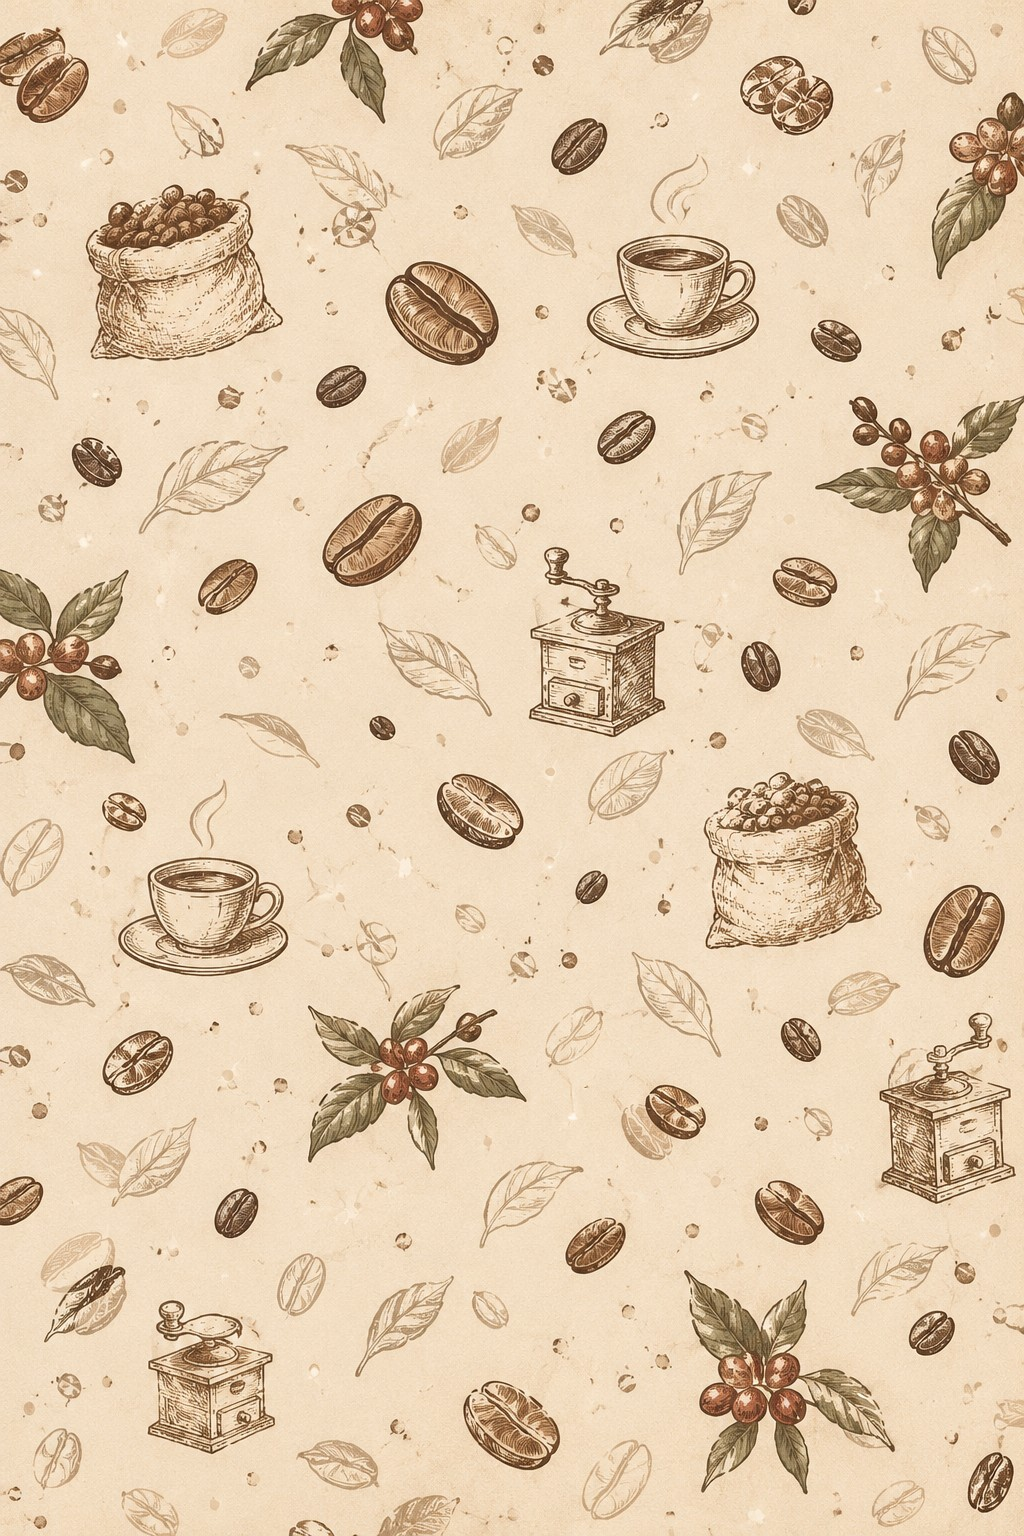
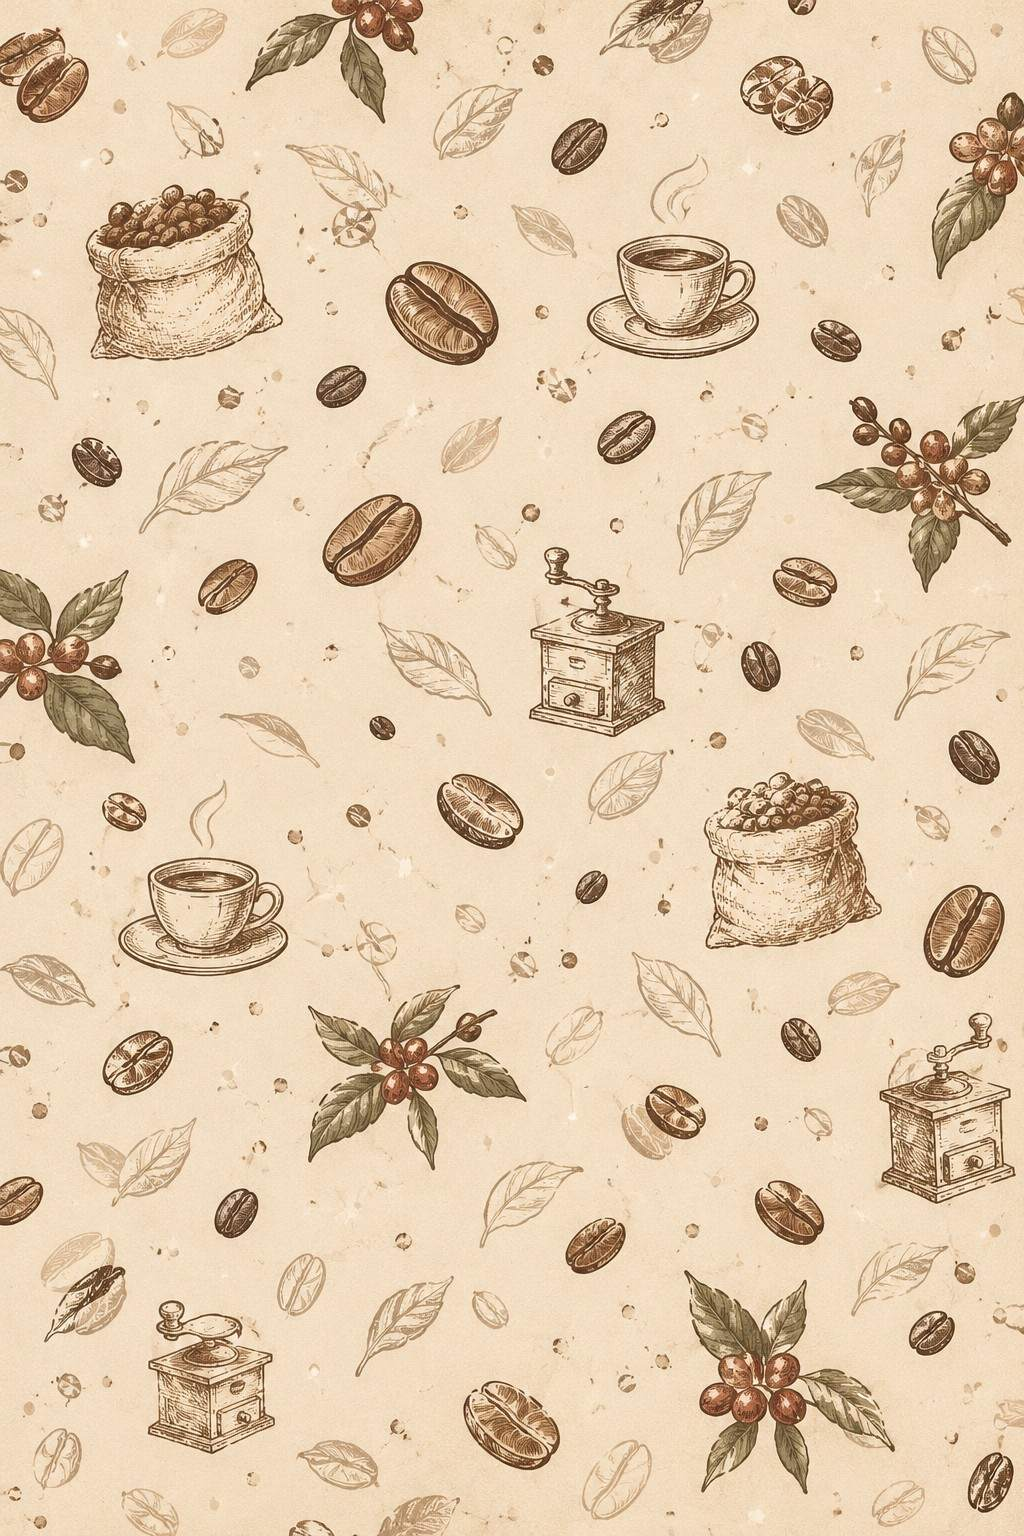
Add files via upload

diff --git a/admin.html b/admin.html
@@ -4,7 +4,8 @@
   <meta charset="UTF-8">
   <meta name="viewport" content="width=device-width, initial-scale=1.0">
   <title>لوحة التحكم السحابية - د. رشفه ملكيه</title>
-  <link href="https://fonts.googleapis.com/css2?family=Tajawal:wght@400;500;700;800&display=swap" rel="stylesheet">
+  <link rel="preconnect" href="https://www.gstatic.com" crossorigin>
+  <link rel="preconnect" href="https://firestore.googleapis.com" crossorigin>
   
   <!-- Firebase SDKs -->
   <script type="module">
@@ -58,11 +59,11 @@
     * { box-sizing: border-box; margin: 0; padding: 0; font-family: 'Tajawal', sans-serif; }
     body {
       background-color: #fff8ee;
-      background-image: none;
-      background-size: auto;
+      background-image: url("coffee-pattern.jpg");
+      background-size: 100% auto;
       background-position: top center;
-      background-repeat: no-repeat;
-      background-attachment: scroll;
+      background-repeat: repeat-y;
+      background-attachment: fixed;
       color: var(--text-main);
       padding: 20px;
       line-height: 1.5;
@@ -186,15 +187,6 @@
     <label style="margin-top:15px;">إضافة إعلان متحرك جديد (يظهر تلقائياً في واجهة المتجر):</label>
     <input type="file" id="slider-file" accept="image/*" onchange="addSliderImage(event)">
     <div id="sliders-list" style="margin-top:15px;"></div>
-  </div>
-
-  <div class="section-box">
-    <div class="section-title">🖼 صورة إعلان الصفحة الرئيسية</div>
-    <p class="note">اختر صورة الإعلان التي تظهر داخل مربع «إعلان قهوة مختارة بعناية من د. رشفه ملكيه» في واجهة المتجر. الصورة تُحفظ في إعدادات المتجر السحابية.</p>
-    <label for="hero-ad-file">إضافة أو تغيير صورة الإعلان:</label>
-    <input type="file" id="hero-ad-file" accept="image/*" onchange="uploadHeroAdImage(event)">
-    <img id="hero-ad-preview" class="preview-img" src="brand-logo.jpg" alt="معاينة صورة إعلان الصفحة الرئيسية" style="display:block;max-width:100%;max-height:260px;object-fit:contain;margin-top:12px;">
-    <button class="btn btn-danger" type="button" onclick="removeHeroAdImage()">إعادة الصورة الافتراضية</button>
   </div>
 
   <div class="section-box">
@@ -409,7 +401,6 @@
     document.getElementById('store-location-url').value = storeData.locationUrl || "";
     document.getElementById('store-close-reason').value = storeData.closeReason || "";
     if(storeData.logo) document.getElementById('logo-preview').src = storeData.logo;
-    document.getElementById('hero-ad-preview').src = storeData.heroAdImage || 'brand-logo.jpg';
     updateStoreStatusUI();
     renderSliders();
     renderProducts();

diff --git a/sw.js b/sw.js
@@ -1,5 +1,34 @@
-const CACHE='rashfa-store-v5';
-const CORE=['./','./index.html','./admin.html','./manifest.json','./brand-logo.jpg'];
-self.addEventListener('install',event=>event.waitUntil((async()=>{const cache=await caches.open(CACHE); await Promise.all(CORE.map(async url=>{try{const r=await fetch(url,{cache:'reload'});if(r.ok)await cache.put(url,r)}catch(e){}})); await self.skipWaiting()})()));
-self.addEventListener('activate',event=>event.waitUntil((async()=>{for(const key of await caches.keys())if(key!==CACHE)await caches.delete(key);await self.clients.claim()})()));
-self.addEventListener('fetch',event=>{if(event.request.method!=='GET'||new URL(event.request.url).origin!==self.location.origin)return;event.respondWith((async()=>{const cached=await caches.match(event.request);if(cached)return cached;try{const response=await fetch(event.request);if(response.ok&&event.request.destination!=='document'){const cache=await caches.open(CACHE);cache.put(event.request,response.clone())}return response}catch(e){return caches.match('./index.html')}})())});
+// Cache-first for local assets: instant repeat visits and faster app startup.
+const CACHE = 'rashfa-store-v6';
+const CORE = ['./', './index.html', './admin.html', './manifest.json', './brand-logo.jpg'];
+self.addEventListener('install', event => {
+  event.waitUntil((async () => {
+    const cache = await caches.open(CACHE);
+    await Promise.all(CORE.map(async url => {
+      try { const r = await fetch(url); if (r.ok) await cache.put(url, r); } catch (_) {}
+    }));
+    await self.skipWaiting();
+  })());
+});
+self.addEventListener('activate', event => {
+  event.waitUntil((async () => {
+    for (const key of await caches.keys()) if (key.startsWith('rashfa-store-') && key !== CACHE) await caches.delete(key);
+    await self.clients.claim();
+  })());
+});
+self.addEventListener('fetch', event => {
+  const req = event.request;
+  if (req.method !== 'GET' || new URL(req.url).origin !== self.location.origin) return;
+  event.respondWith((async () => {
+    const cache = await caches.open(CACHE);
+    const cached = await cache.match(req);
+    if (cached) return cached;
+    try {
+      const response = await fetch(req);
+      if (response.ok && (req.destination !== 'document' || req.url.includes('coffee-pattern.jpg'))) cache.put(req, response.clone()).catch(() => {});
+      return response;
+    } catch (_) {
+      return (await cache.match('./index.html')) || Response.error();
+    }
+  })());
+});

diff --git a/index.html b/index.html
@@ -9,8 +9,8 @@
 <meta name="apple-mobile-web-app-capable" content="yes">
   <title>د. رشفه ملكيه | متجر القهوة</title>
   <link rel="preconnect" href="https://www.gstatic.com" crossorigin>
-  <link rel="preconnect" href="https://fonts.googleapis.com">
-  <link href="https://fonts.googleapis.com/css2?family=Tajawal:wght@400;500;700;800&display=swap" rel="stylesheet">
+  <link rel="preconnect" href="https://firestore.googleapis.com" crossorigin>
+  <link rel="preload" as="image" href="./brand-logo.jpg" fetchpriority="high">
   
   <!-- Firebase SDKs -->
   <script type="module">
@@ -63,11 +63,11 @@
     
     body {
       background-color: #fff8ee;
-      background-image: none;
-      background-size: auto;
+      background-image: url("coffee-pattern.jpg");
+      background-size: 100% auto;
       background-position: top center;
-      background-repeat: no-repeat;
-      background-attachment: scroll;
+      background-repeat: repeat-y;
+      background-attachment: fixed;
       color: var(--text);
       padding-bottom: 40px;
     }
@@ -318,8 +318,6 @@
       <button class="cart-btn" onclick="toggleCart()">🛒 <span id="cart-count" class="cart-badge">0</span></button>
     </div>
 
-    <div class="coffee-hero logo-hero" aria-label="شعار د. رشفه ملكيه"><img id="hero-ad-image" src="brand-logo.jpg" alt="شعار د. رشفه ملكيه"></div>
-
     <div class="search-container">
       <input type="text" id="search-input" class="search-input" placeholder="ابحث عن القهوة ومنتجاتها..." oninput="filterProducts()">
     </div>
@@ -442,7 +440,7 @@
     setTimeout(() => {
       const splash = document.getElementById('splash-screen');
       if (splash) splash.classList.add('fade-out');
-    }, 700);
+    }, 250);
     if (window.db) fetchStoreDataFromCloud();
     else window.addEventListener('firebase-ready', fetchStoreDataFromCloud, { once: true });
 
@@ -589,7 +587,6 @@
       document.getElementById('splash-img').src = logo;
       document.getElementById('header-logo').src = logo;
       document.getElementById('toast-img').src = logo;
-      const heroLogo = document.getElementById('hero-ad-image'); if (heroLogo) heroLogo.src = 'brand-logo.jpg';
       document.getElementById('whatsapp-float-btn').href = `https://wa.me/${storeData.phone || '966553804010'}`;
 
       const storeLocBox = document.getElementById('store-location-box');
